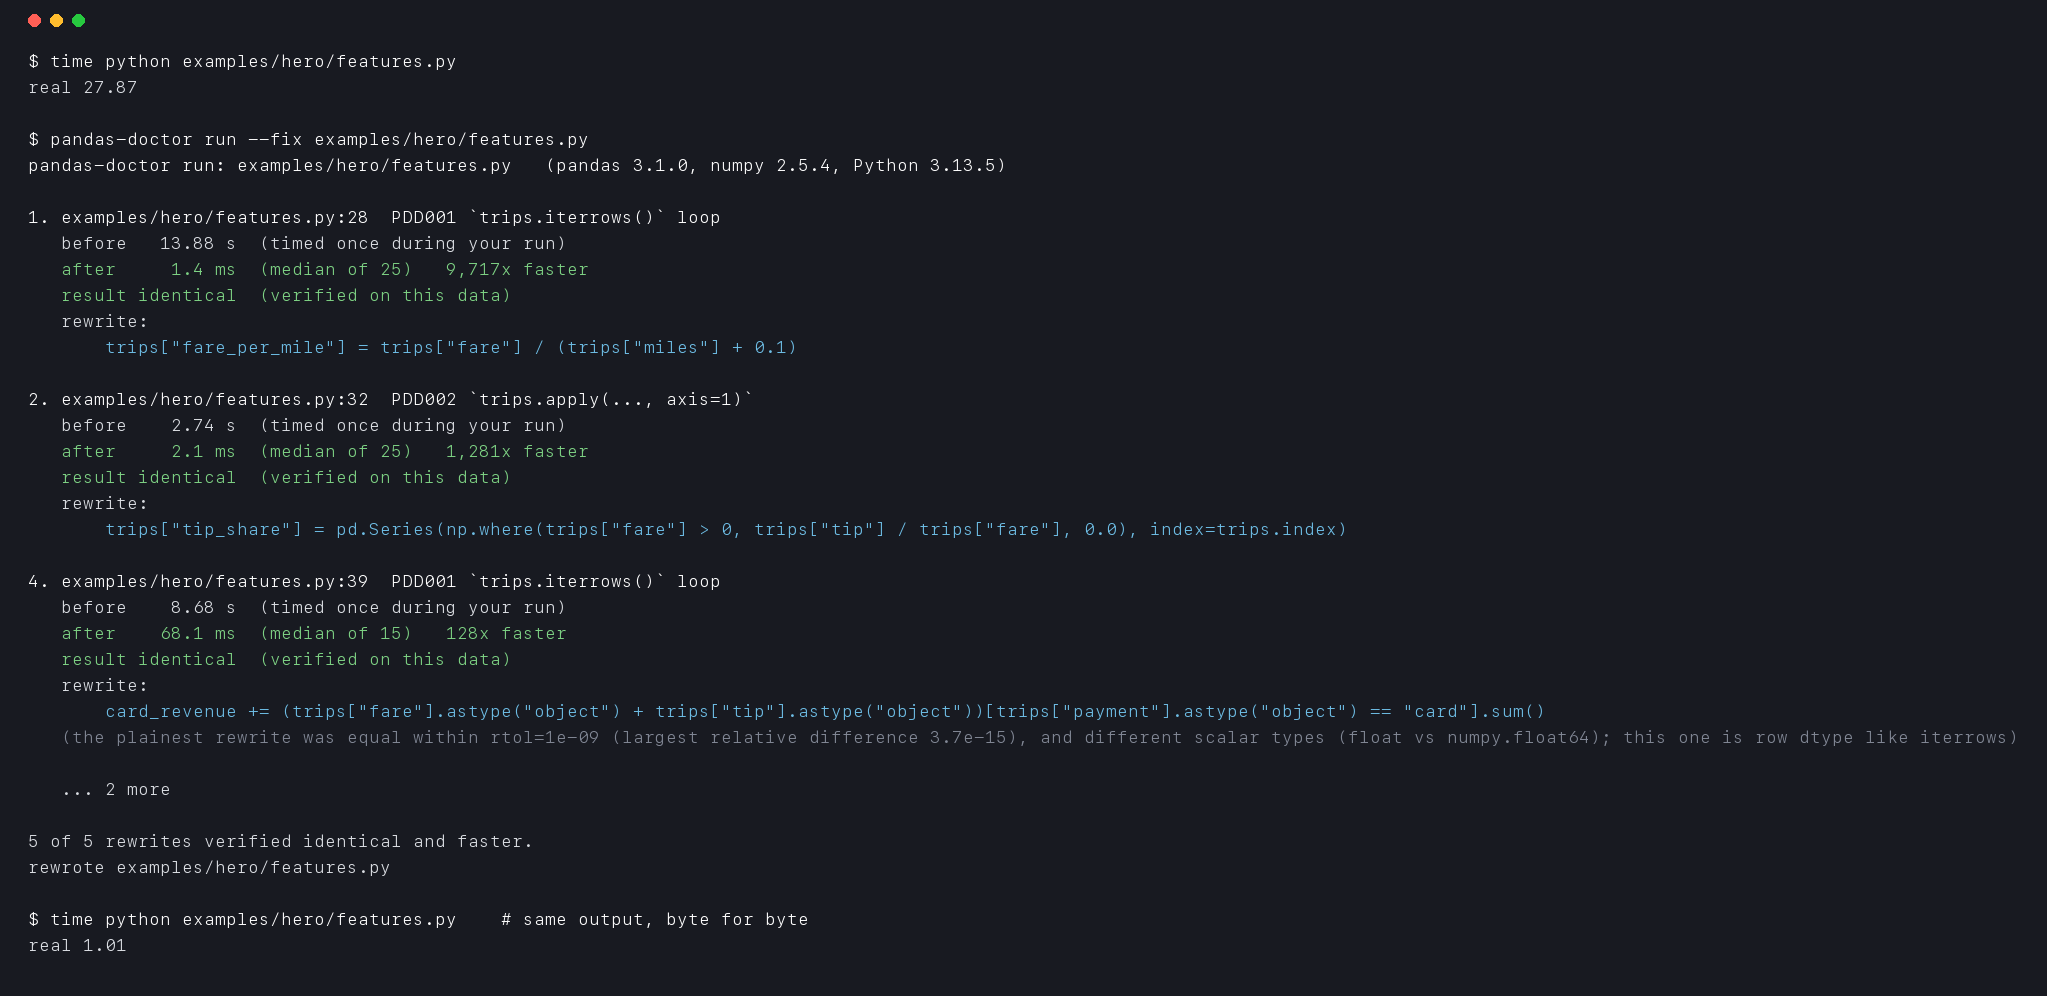
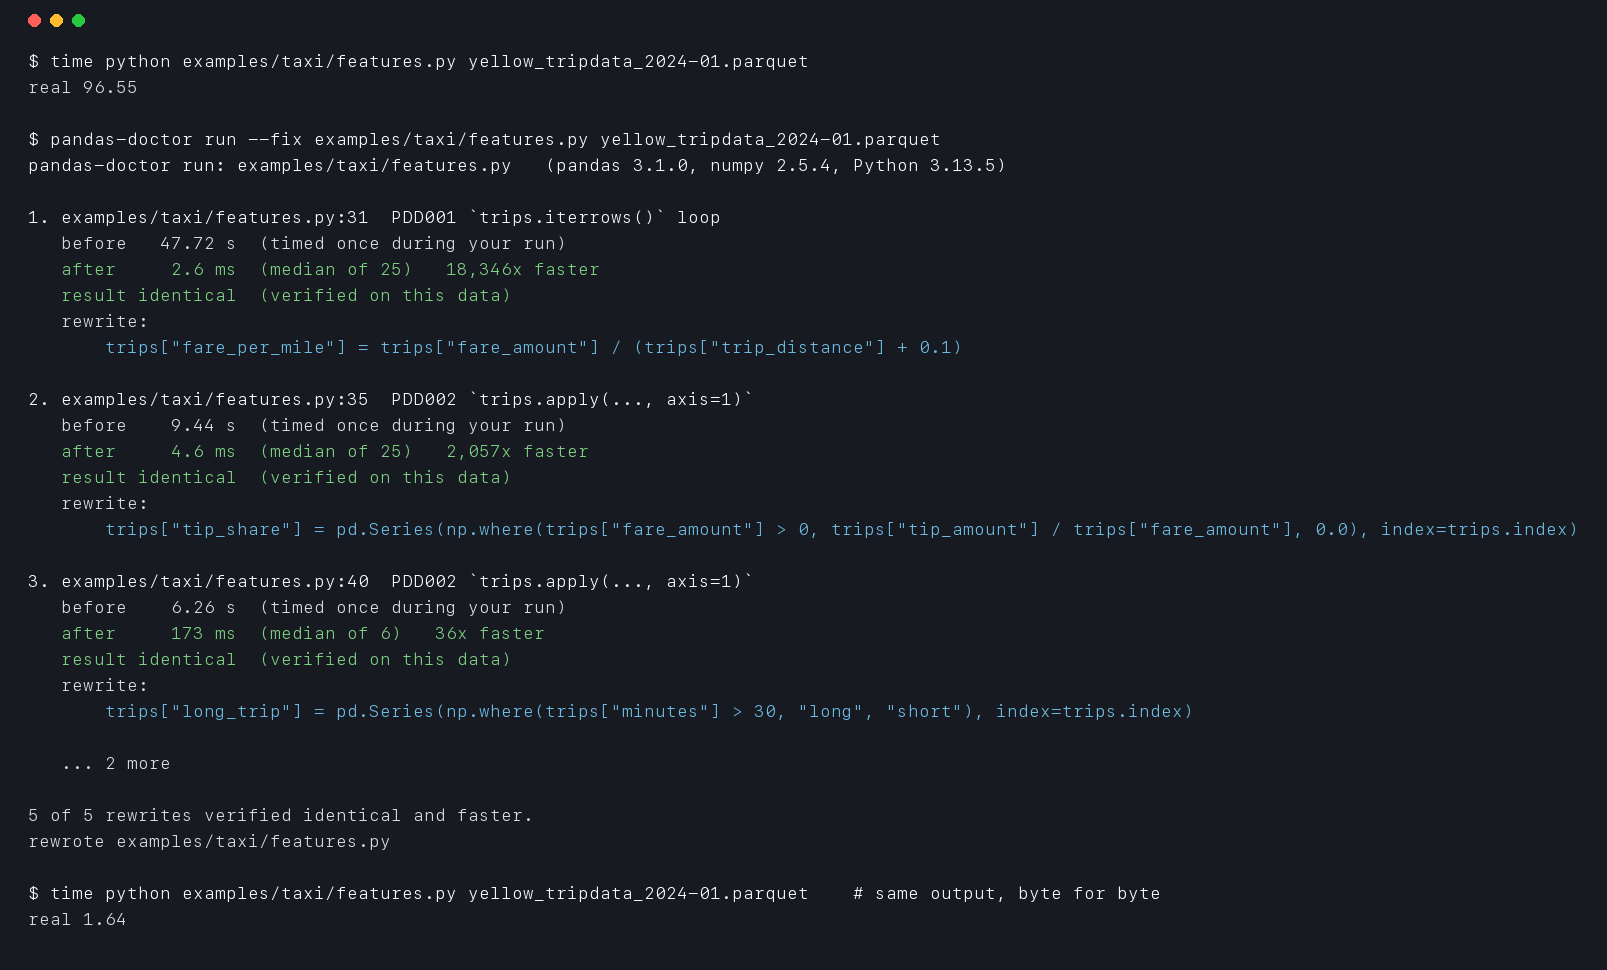
Real-data demo, MCP Registry listing, Colab notebook, llms.txt; 0.1.1

diff --git a/examples/taxi/features.py b/examples/taxi/features.py
@@ -1,0 +1,52 @@
+"""The hero example on real data: NYC yellow taxi trips for January 2024 (2.96M rows).
+
+Download the month from the NYC TLC (about 48 MB, needs pyarrow to read):
+
+    curl -O https://d37ci6vzurychx.cloudfront.net/trip-data/yellow_tripdata_2024-01.parquet
+    python examples/taxi/features.py yellow_tripdata_2024-01.parquet
+    pandas-doctor run examples/taxi/features.py yellow_tripdata_2024-01.parquet
+"""
+
+import sys
+
+import pandas as pd
+
+trips = pd.read_parquet(
+    sys.argv[1],
+    columns=[
+        "tpep_pickup_datetime",
+        "tpep_dropoff_datetime",
+        "trip_distance",
+        "fare_amount",
+        "tip_amount",
+        "payment_type",
+    ],
+)
+trips["minutes"] = (
+    trips["tpep_dropoff_datetime"] - trips["tpep_pickup_datetime"]
+).dt.total_seconds() / 60
+
+# price per mile
+trips["fare_per_mile"] = 0.0
+for i, row in trips.iterrows():
+    trips.at[i, "fare_per_mile"] = row["fare_amount"] / (row["trip_distance"] + 0.1)
+
+# tip as a share of the fare
+trips["tip_share"] = trips.apply(
+    lambda r: r["tip_amount"] / r["fare_amount"] if r["fare_amount"] > 0 else 0.0, axis=1
+)
+
+# long trips
+trips["long_trip"] = trips.apply(lambda r: "long" if r["minutes"] > 30 else "short", axis=1)
+
+# total revenue from card payments (payment_type 1)
+card_revenue = 0.0
+for _, row in trips.iterrows():
+    if row["payment_type"] == 1:
+        card_revenue += row["fare_amount"] + row["tip_amount"]
+
+# pickup hour
+trips["hour"] = trips["tpep_pickup_datetime"].apply(lambda t: t.hour)
+
+print(trips[["fare_per_mile", "tip_share", "long_trip", "hour"]].describe(include="all").round(3))
+print(f"card revenue: {card_revenue:,.2f}")

diff --git a/src/pandas_doctor/magic.py b/src/pandas_doctor/magic.py
@@ -51,20 +51,19 @@ def register(ipython: Any) -> None:
             strict_types=args.strict_types,
             budget=args.budget,
         )
-        write_report(
-            outcome.doctor,
-            "cell",
-            cell.splitlines(),
-            stream=sys.stdout,
-            hint="Use `%%doctor --rewrite` to get the verified rewrite as a new cell.",
-        )
+        new_source, skipped = outcome.rewritten() if args.rewrite else (cell, [])
+        if not args.rewrite:
+            hint = "Use `%%doctor --rewrite` to get the verified rewrite as a new cell."
+        elif new_source != cell:
+            hint = "The verified rewrite is in a new cell below."
+        else:
+            hint = ""
+        write_report(outcome.doctor, "cell", cell.splitlines(), stream=sys.stdout, hint=hint)
         write_memory(outcome.memory, stream=sys.stdout)
-        if args.rewrite:
-            new_source, skipped = outcome.rewritten()
-            for note in skipped:
-                print(f"not rewritten: {note}")
-            if new_source != cell:
-                ipython.set_next_input(new_source, replace=False)
+        for note in skipped:
+            print(f"not rewritten: {note}")
+        if new_source != cell:
+            ipython.set_next_input(new_source, replace=False)
         if outcome.error is not None:
             raise outcome.error
 

diff --git a/tests/runtime/test_magic.py b/tests/runtime/test_magic.py
@@ -28,10 +28,14 @@ def test_cell_runs_in_notebook_namespace(ip, capsys: pytest.CaptureFixture[str])
     assert not [k for k in ip.user_ns if k.startswith("__pdd")]
 
 
-def test_rewrite_flag_offers_new_cell(ip, monkeypatch: pytest.MonkeyPatch) -> None:  # type: ignore[no-untyped-def]
+def test_rewrite_flag_offers_new_cell(
+    ip, monkeypatch: pytest.MonkeyPatch, capsys: pytest.CaptureFixture[str]
+) -> None:  # type: ignore[no-untyped-def]
     offered: list[str] = []
     monkeypatch.setattr(ip, "set_next_input", lambda text, replace=False: offered.append(text))
     ip.run_cell(
         "%%doctor --rewrite --budget 0.1\nfor i, r in df.iterrows():\n    df.at[i, 'd'] = r['a'] * 2"
     )
     assert offered and 'df["d"] = df["a"] * 2' in offered[0].replace("'", '"')
+    out = capsys.readouterr().out
+    assert "in a new cell below" in out and "Use `%%doctor --rewrite`" not in out

diff --git a/src/pandas_doctor/__init__.py b/src/pandas_doctor/__init__.py
@@ -4,7 +4,7 @@ from __future__ import annotations
 
 from typing import Any
 
-__version__ = "0.1.0"
+__version__ = "0.1.1"
 
 __all__ = ["__version__", "compare", "load_ipython_extension", "verify_code"]
 

diff --git a/README.md b/README.md
@@ -2,9 +2,11 @@
 
 pandas-doctor finds the slow pandas lines in your code, rewrites them, and checks on your own data that the result is exactly the same. Then it tells you how much faster the rewrite was, measured, not guessed.
 
-![pandas-doctor run on a 1M-row feature engineering script](https://raw.githubusercontent.com/furqan-khan07/pandas-doctor/main/docs/demo.gif)
+![pandas-doctor run on a month of real NYC taxi trips](https://raw.githubusercontent.com/furqan-khan07/pandas-doctor/main/docs/demo.gif)
 
-That's a real run: [`examples/hero/features.py`](examples/hero/features.py), 1 million synthetic taxi trips with the kind of loops a lot of notebooks have. The script took **27.9 s**. pandas-doctor checked 5 rewrites on the script's own data, all identical and faster. After `--fix` the whole script runs in **1.01 s** and prints exactly the same output. Full report in [`docs/hero-run-full.txt`](docs/hero-run-full.txt).
+That's a real run on real data: [`examples/taxi/features.py`](examples/taxi/features.py) on January 2024 of the [NYC TLC yellow taxi trips](https://www.nyc.gov/site/tlc/about/tlc-trip-record-data.page) (2.96 million rows), with the kind of loops a lot of notebooks have. The script took **96.6 s** (M4 Pro, pandas 3.1.0 with pyarrow). pandas-doctor checked 5 rewrites on the script's own data, all identical and faster. After `--fix` the whole script runs in **1.64 s** and prints exactly the same output. Full report in [`docs/taxi-run-full.txt`](docs/taxi-run-full.txt).
+
+No download needed for [`examples/hero/features.py`](examples/hero/features.py), the same script on 1M seeded synthetic trips: 27.9 s before, 1.01 s after ([report](docs/hero-run-full.txt)).
 
 ## Try it
 
@@ -12,6 +14,8 @@ That's a real run: [`examples/hero/features.py`](examples/hero/features.py), 1 m
 pip install pandas-doctor
 pandas-doctor run your_script.py
 ```
+
+Or try it in your browser first, nothing to install: [![Open in Colab](https://colab.research.google.com/assets/colab-badge.svg)](https://colab.research.google.com/github/furqan-khan07/pandas-doctor/blob/main/examples/try_it.ipynb)
 
 `run` executes your script normally. Wherever it spots a slow pattern, it copies that code's inputs, lets your code run as usual, then runs the rewrite on the copies and compares the outputs. `--diff` shows the verified rewrites as a patch, and `--fix` writes them into the file.
 
@@ -129,7 +133,30 @@ The comment needs `permissions: pull-requests: write`. `check --format json` wor
 
 ## AI assistants
 
-`pandas-doctor mcp` serves three tools over MCP: `check_code`, `verify_rewrite` and `list_rules`. Install it with `pip install "pandas-doctor[mcp]"`. For Claude Code there's a plugin with a skill that tells the assistant to verify before claiming a speedup:
+`pandas-doctor mcp` serves three tools over MCP: `check_code`, `verify_rewrite` and `list_rules`. Install it with `pip install "pandas-doctor[mcp]"`, or let `uvx` fetch it. In Claude Code:
+
+```bash
+claude mcp add pandas-doctor -- uvx --from "pandas-doctor[mcp]" pandas-doctor mcp
+```
+
+In Cursor, Claude Desktop or any other client that takes an `mcpServers` config:
+
+```json
+{
+  "mcpServers": {
+    "pandas-doctor": {
+      "command": "uvx",
+      "args": ["--from", "pandas-doctor[mcp]", "pandas-doctor", "mcp"]
+    }
+  }
+}
+```
+
+It's also in the [MCP Registry](https://registry.modelcontextprotocol.io) as `io.github.furqan-khan07/pandas-doctor`.
+
+<!-- mcp-name: io.github.furqan-khan07/pandas-doctor -->
+
+For Claude Code there's also a plugin with a skill that tells the assistant to verify before claiming a speedup:
 
 ```
 /plugin marketplace add furqan-khan07/pandas-doctor

diff --git a/CHANGELOG.md b/CHANGELOG.md
@@ -1,5 +1,14 @@
 # Changelog
 
+## 0.1.1 (2026-11-12)
+
+- Listed in the MCP Registry as `io.github.furqan-khan07/pandas-doctor` (`server.json`), with setup snippets for
+  Claude Code, Cursor and other MCP clients in the README.
+- A real-data example: `examples/taxi/features.py` on a month of NYC taxi trips.
+- A Colab notebook to try it in the browser (`examples/try_it.ipynb`).
+- `%%doctor --rewrite` no longer tells you to use `--rewrite`; it says the rewrite is in the new cell.
+- `llms.txt` for AI tools that read it.
+
 ## 0.1.0 (2026-11-12)
 
 First release.
